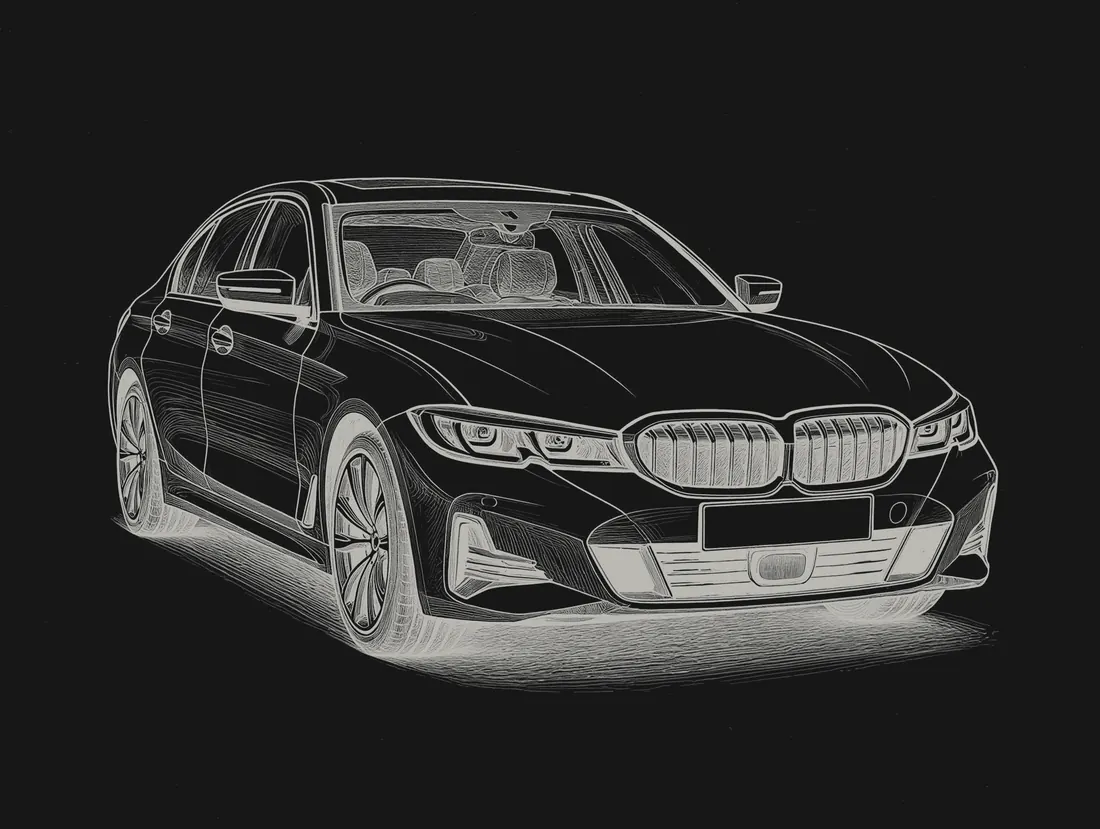
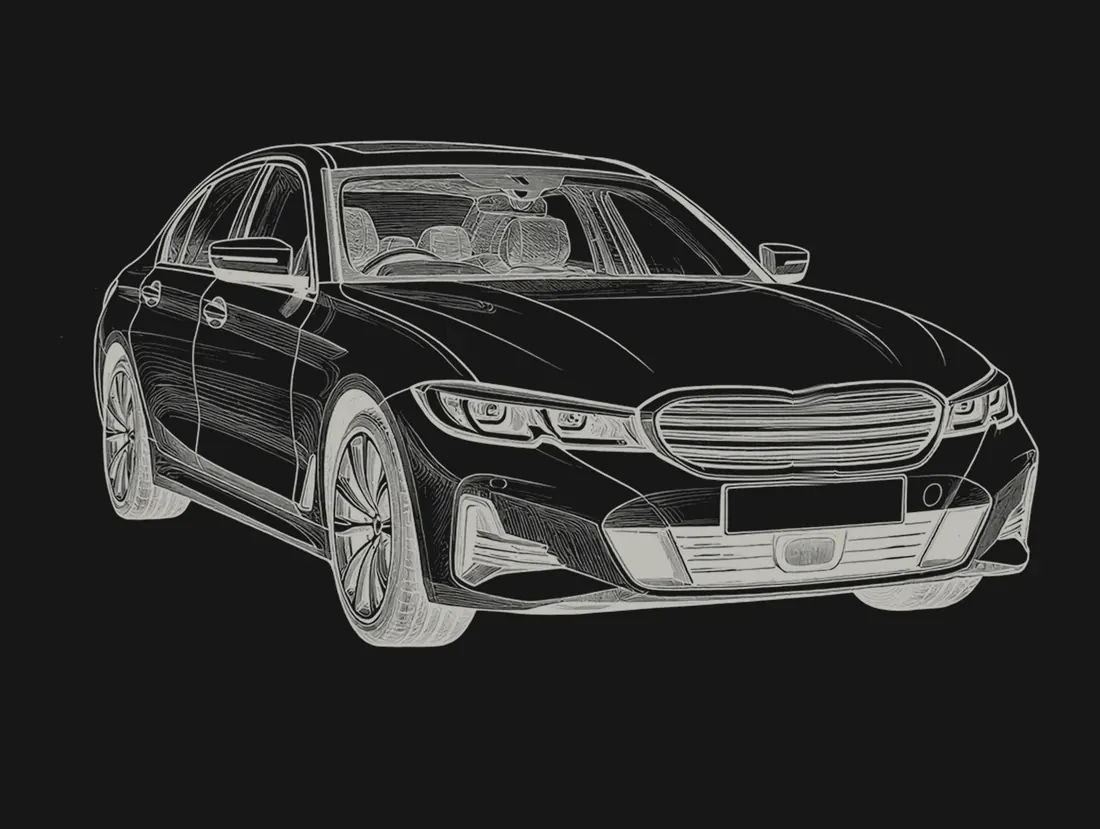
feat(form): photo guides without the glow under the car
The sketches' ground shadow turned into a light patch under the car once
recolored for the dark tile. The exterior views now have no shadow, fill
more of the tile and leave its plus clear, and the front view's grille is
a plain one that belongs to no make.

Changed region(s): [[0.0618, 0.1508, 0.9582, 0.8444]]

diff --git a/CLAUDE.md b/CLAUDE.md
@@ -126,9 +126,14 @@ miles, USD, ZIP, US phone format). Agreed deviations:
 - Illustrations: sources go to `design-reference/` (git-ignored), the app ships
   WebP versions in `frontend/src/assets/illustrations/` (hero in several widths
   for srcset, guides named as in the preset). Guide sources are pencil sketches
-  on light paper (`design-reference/guide-<slot>.jpg`); `tools/make_guides.py`
-  redraws them in two colors, paper = the empty tile's `--surface-sunken`,
-  pencil = a soft light line, dense interior sketches dimmed to match.
+  on white paper (`design-reference/guide-<slot>.png`), with no shadow on the
+  ground (turned light, it glows under the car); the car takes nine tenths of
+  the tile's width and sits a little high, so the tile's plus in the lower
+  right corner stays clear of it, and the left and right views are mirrors of
+  one sketch. `tools/make_guides.py` redraws them in two colors, paper = the
+  empty tile's `--surface-sunken`, pencil = a soft light line, dense interior
+  sketches dimmed to match. Simple outline drawings were tried and dropped:
+  the owner found them childish next to the sketches.
 - Brand mark: the design's lime rounded square, with a dark price tag instead
   of the design's dot (chosen by the owner; `shared/TagGlyph.svelte`, and
   `app/branding/mark.py` for the home-screen icons). The $ shows only where
@@ -148,10 +153,10 @@ miles, USD, ZIP, US phone format). Agreed deviations:
   missing letter, no joining scripts yet), text >= 7 pt and
   >= 0.2 in inside the trim, flat rich-black background under 300% ink, QR and
   small gray text in black ink only, black overprints on the accent.
-- No manufacturer badges or emblems in shipped images (trademarks). They are
-  retouched out of the sources: `design-reference/hero-car-clean.png` and the
-  `guide-<slot>.jpg` sketches. A new illustration gets the same treatment
-  before it is converted.
+- No manufacturer badges or emblems in shipped images, and no grille that
+  belongs to one make (trademarks). They are retouched out of the sources:
+  `design-reference/hero-car-clean.png` and the `guide-<slot>.png` sketches.
+  A new illustration gets the same treatment before it is converted.
 - Contact: name, phone (required), email (optional, personal data), preferred
   contact method (call, SMS, WhatsApp, email). Telegram is opt-in per client
   (one line in the preset; texts ship). The lead's second button, next to
